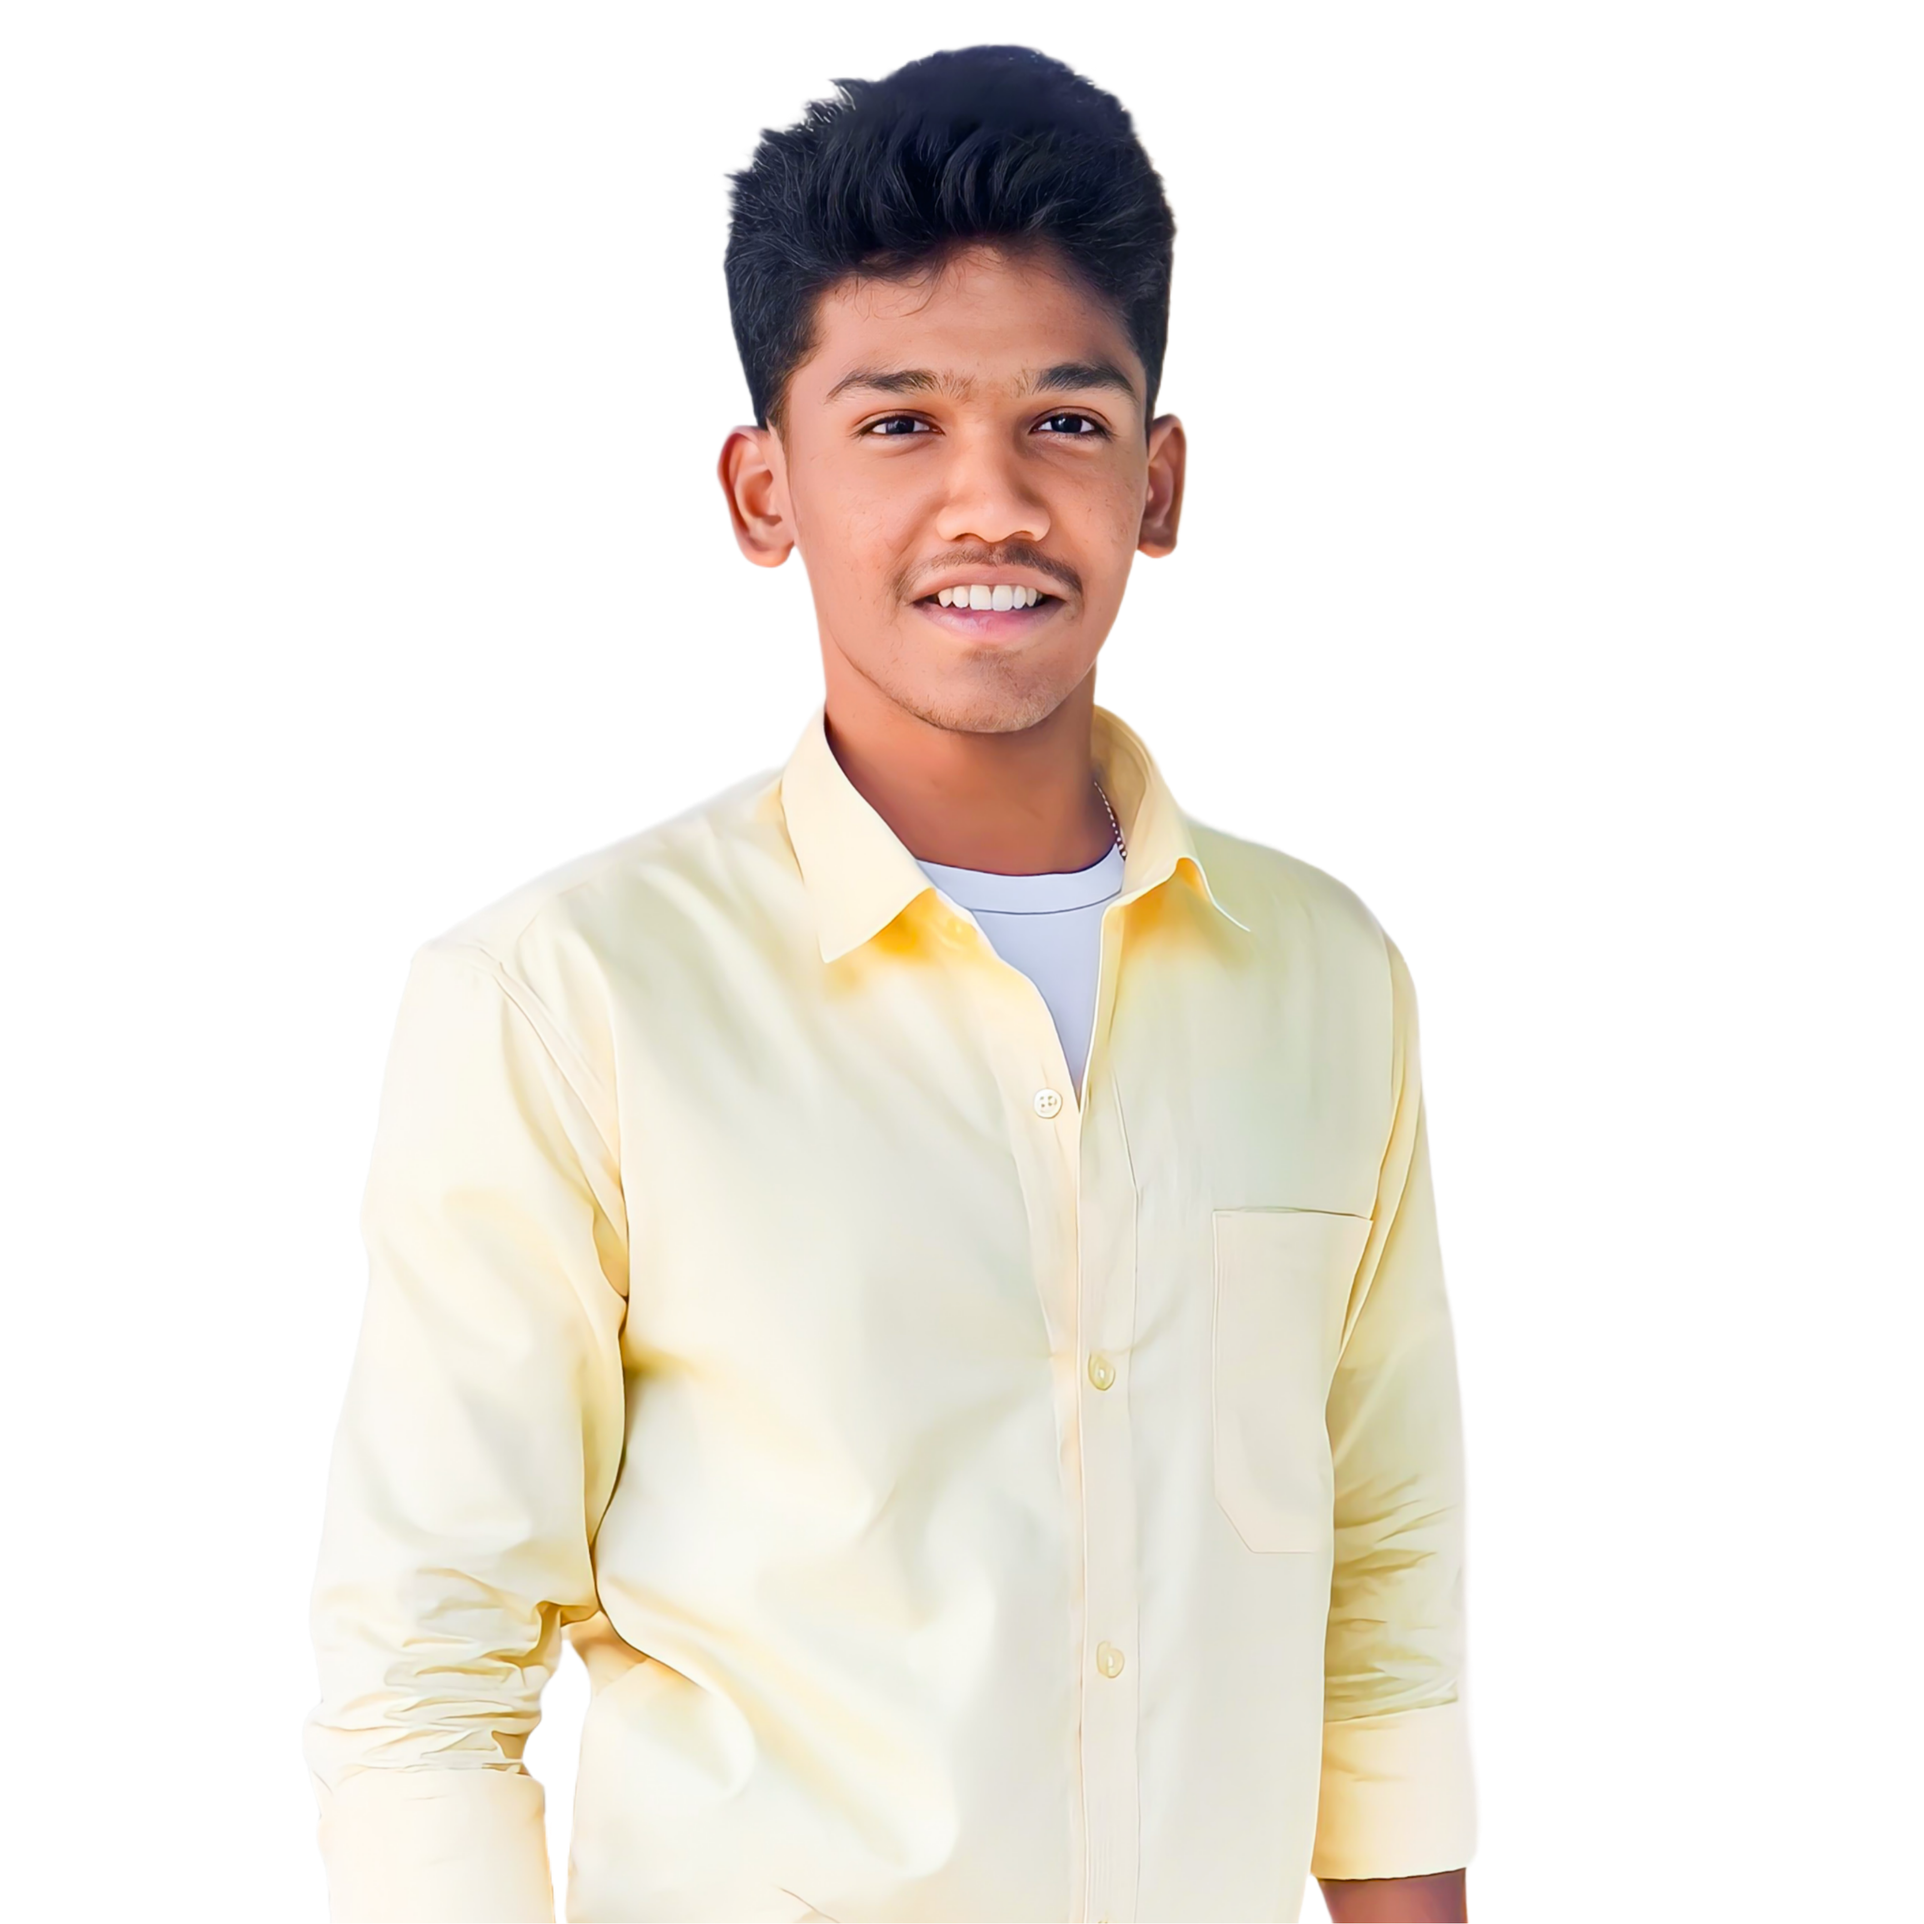
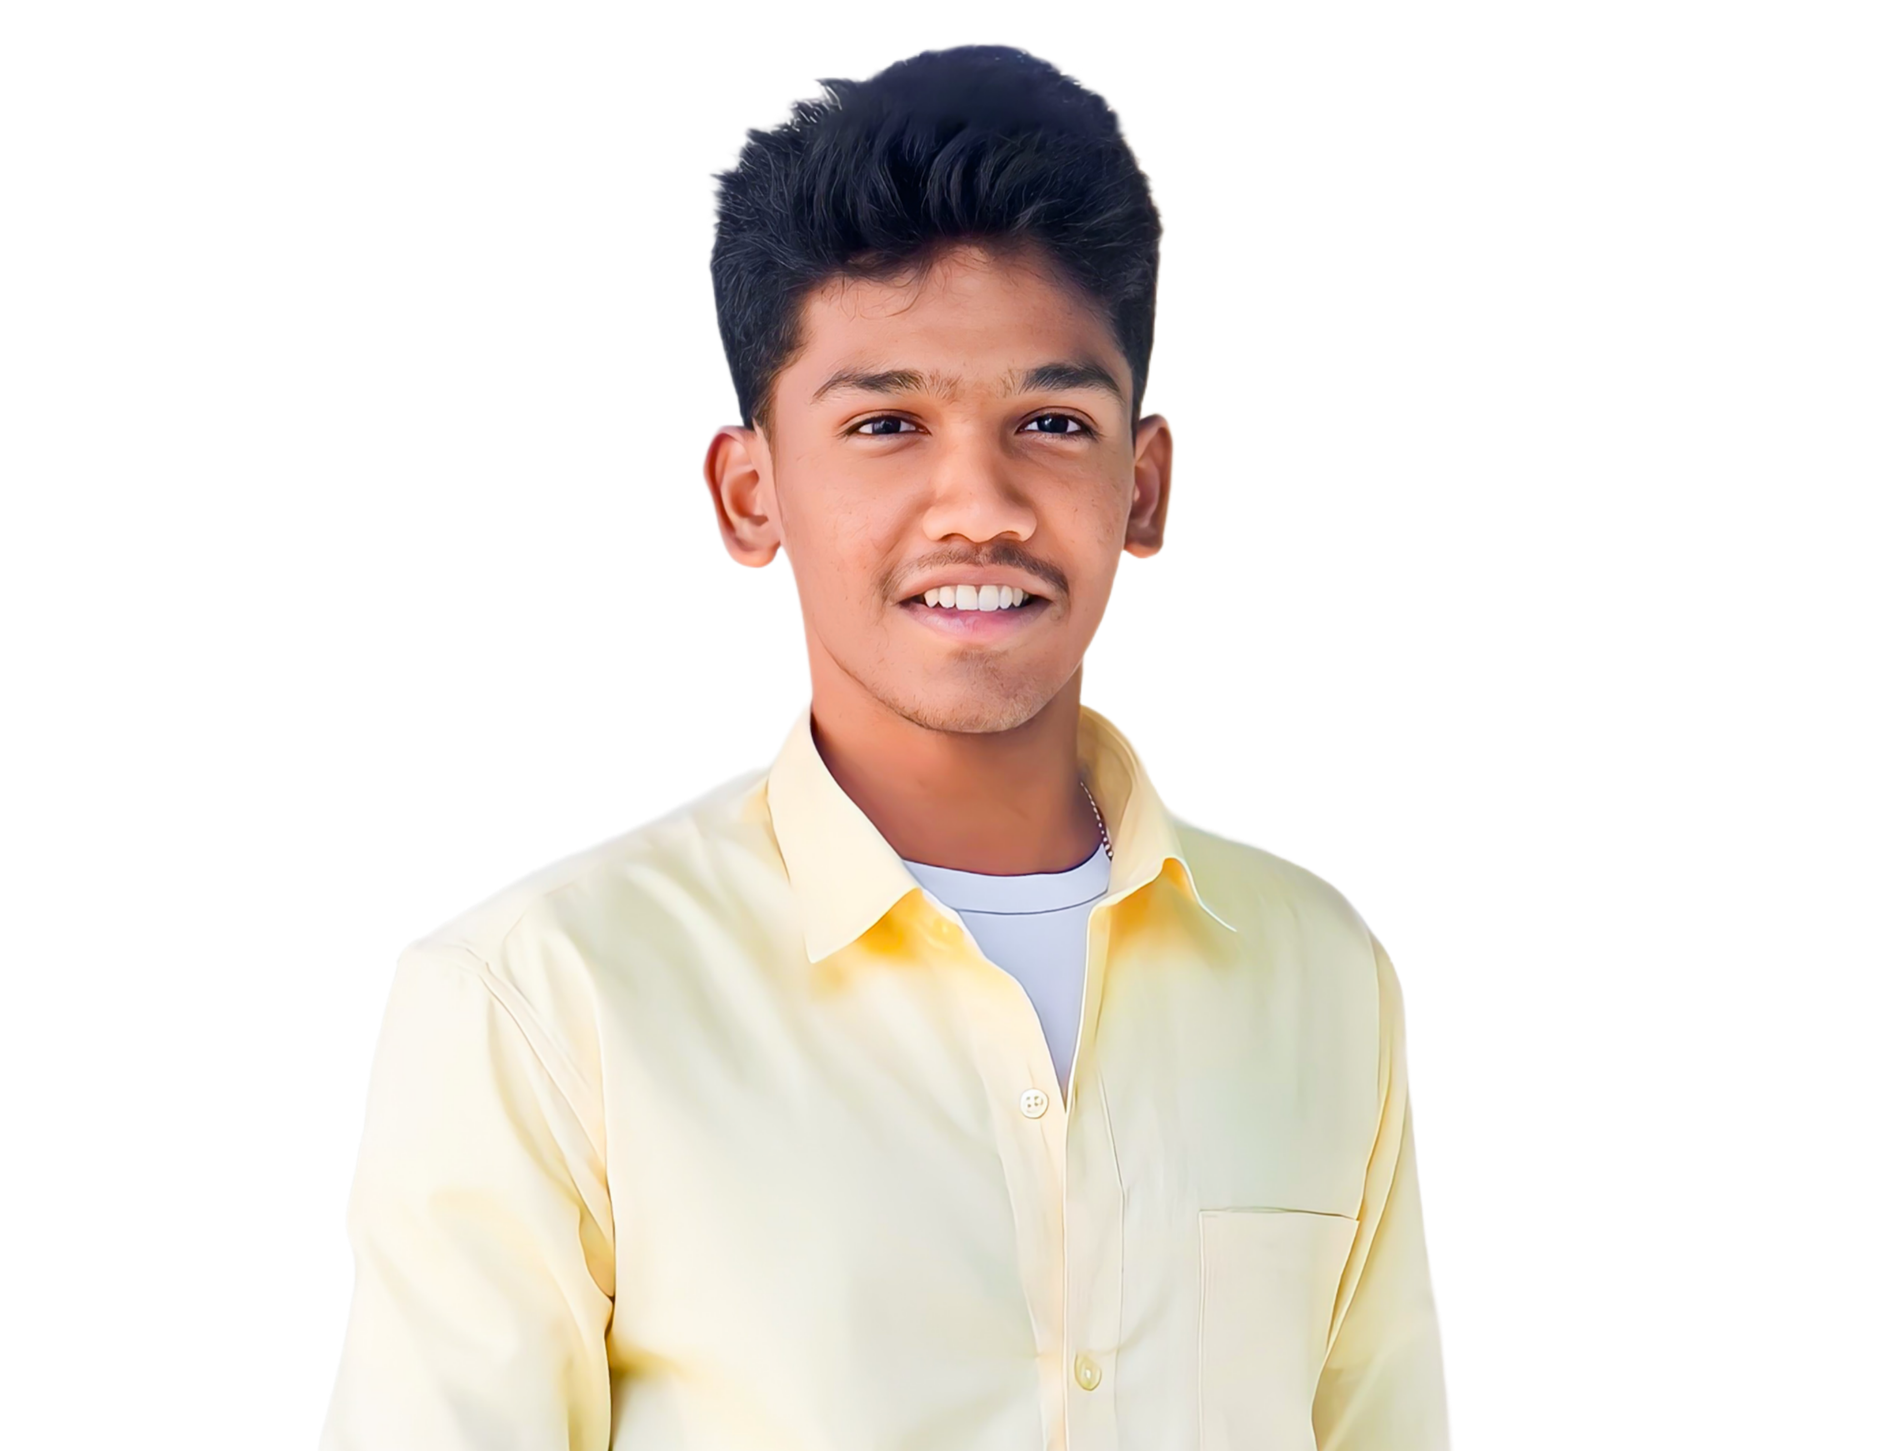
edit8

diff --git a/src/Components/UI/MainPhoto.jsx b/src/Components/UI/MainPhoto.jsx
@@ -3,6 +3,8 @@ import Countup from "react-countup"
 import heroImg1 from "../../assets/images/HeroImg.jpg"
 import heroImg2 from "../../assets/images/Hero.png"
 import heroImg3 from "../../assets/images/profile1.png"
+import heroImg4 from "../../assets/images/profile2.jpg"
+import heroImg5 from "../../assets/images/profile3.png"
 
 const MainPhoto = () => {
 
@@ -110,8 +112,8 @@ const MainPhoto = () => {
                 </div>
                 {/*-------------Photo Start------------*/}
                 <div className='pt-5'>
-                    <div className='flex items-center justify-center border-2 border-black rounded-full overflow-hidden w-[270px] h-[270px]'>
-                    <img src={heroImg2} className='pt-[40px]' alt=""/>
+                    <div className='flex items-center justify-center border-2 border-black rounded-full overflow-hidden w-[300px] h-[300px]'>
+                        <img src={heroImg4} className='w-[100%] pt-16' alt=""/>
                     </div>
                 </div>
                 {/*-------------Photo End------------*/}
